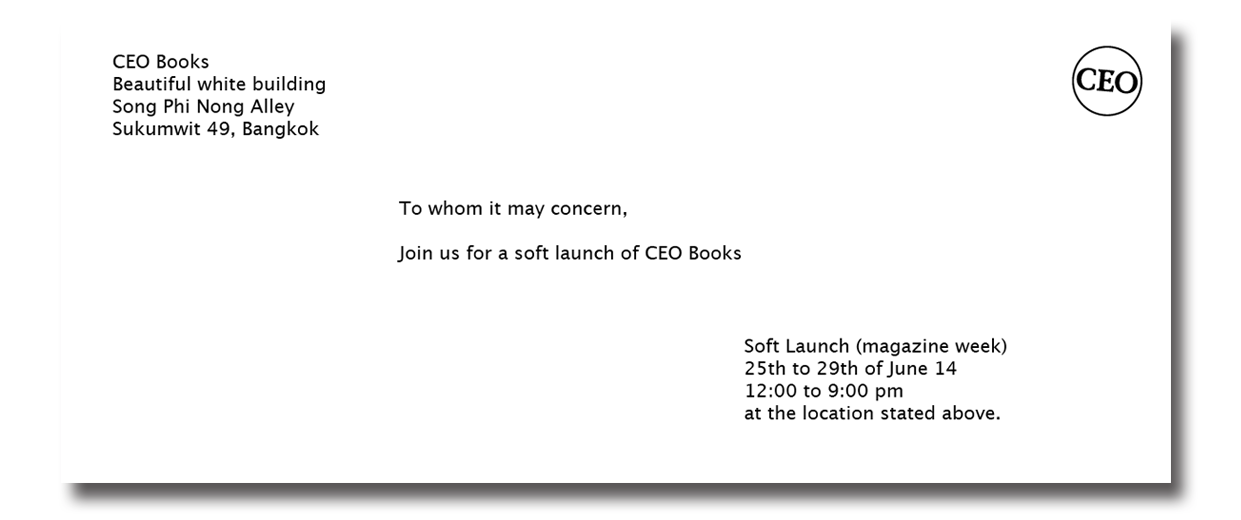
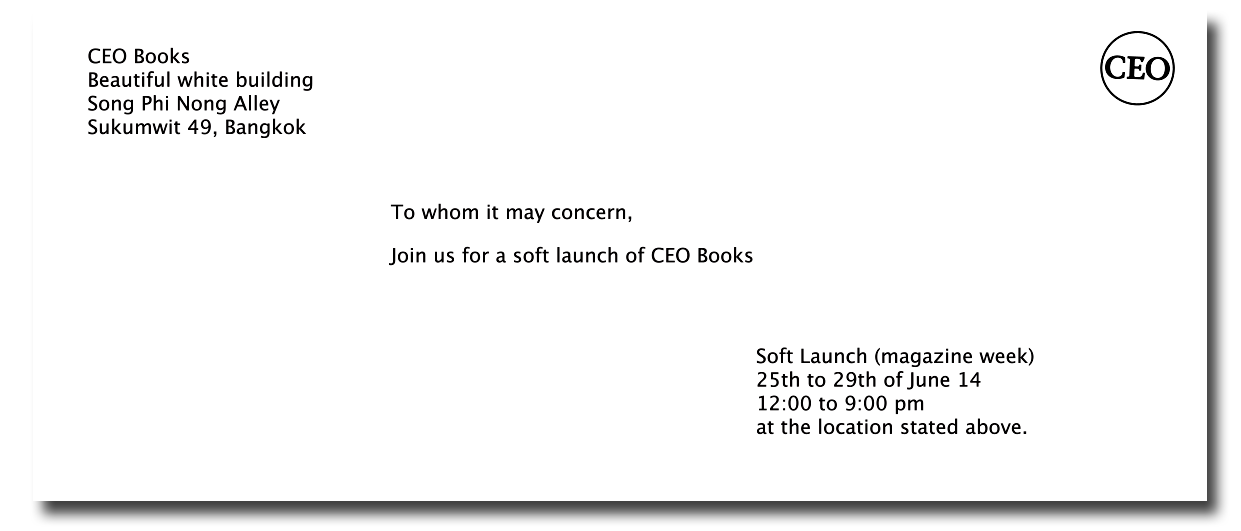
man

diff --git a/index.html b/index.html
@@ -91,14 +91,11 @@ T: 027128578
      <h1>
 Current</div><br><br><br>
 <div class="ceoposter">
-<IMG class="displayed" src="images/CEOletter1.png"  width="40%" height="40%">
+<IMG class="displayed" src="images/CEOletterthanks.png"  width="40%" height="40%">
 <br>
 
 
-<marquee>
-<font face="Comic Sans MS" size=5 color="#FFBBDC">
-Soft Launch between 25th and 29th of June 2014</font>
-</marquee>
+
 
 
 <script>
